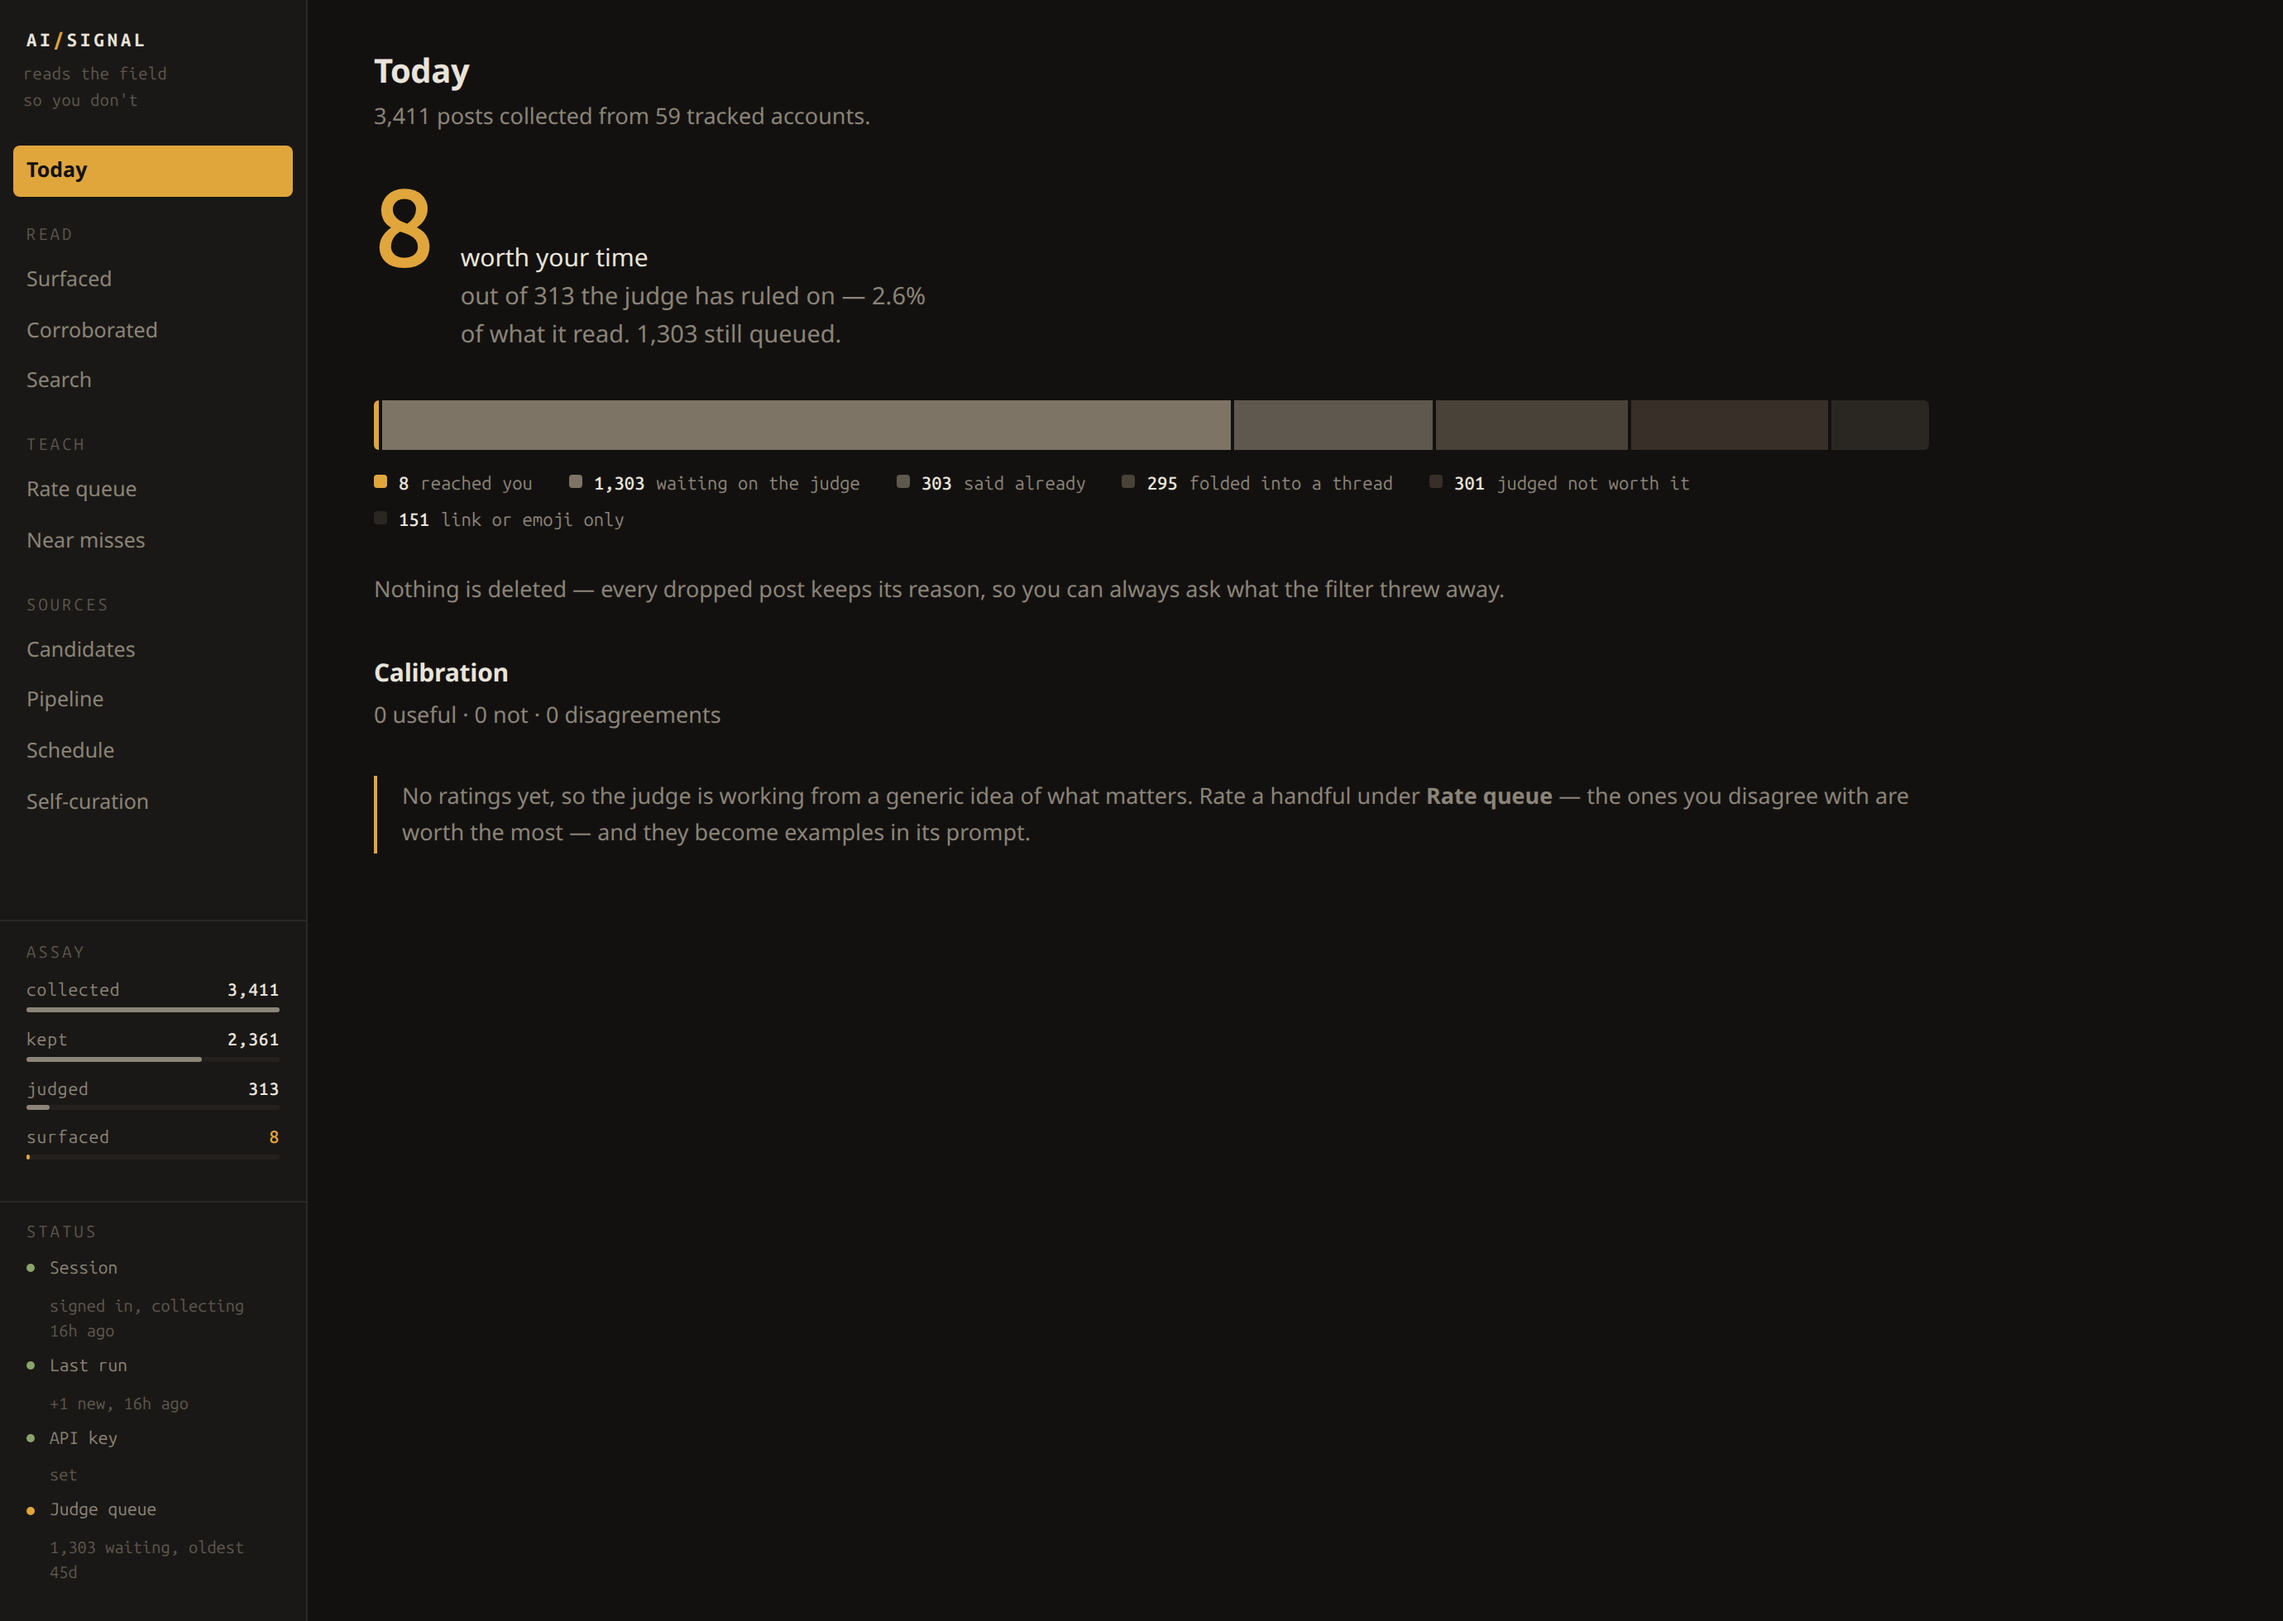
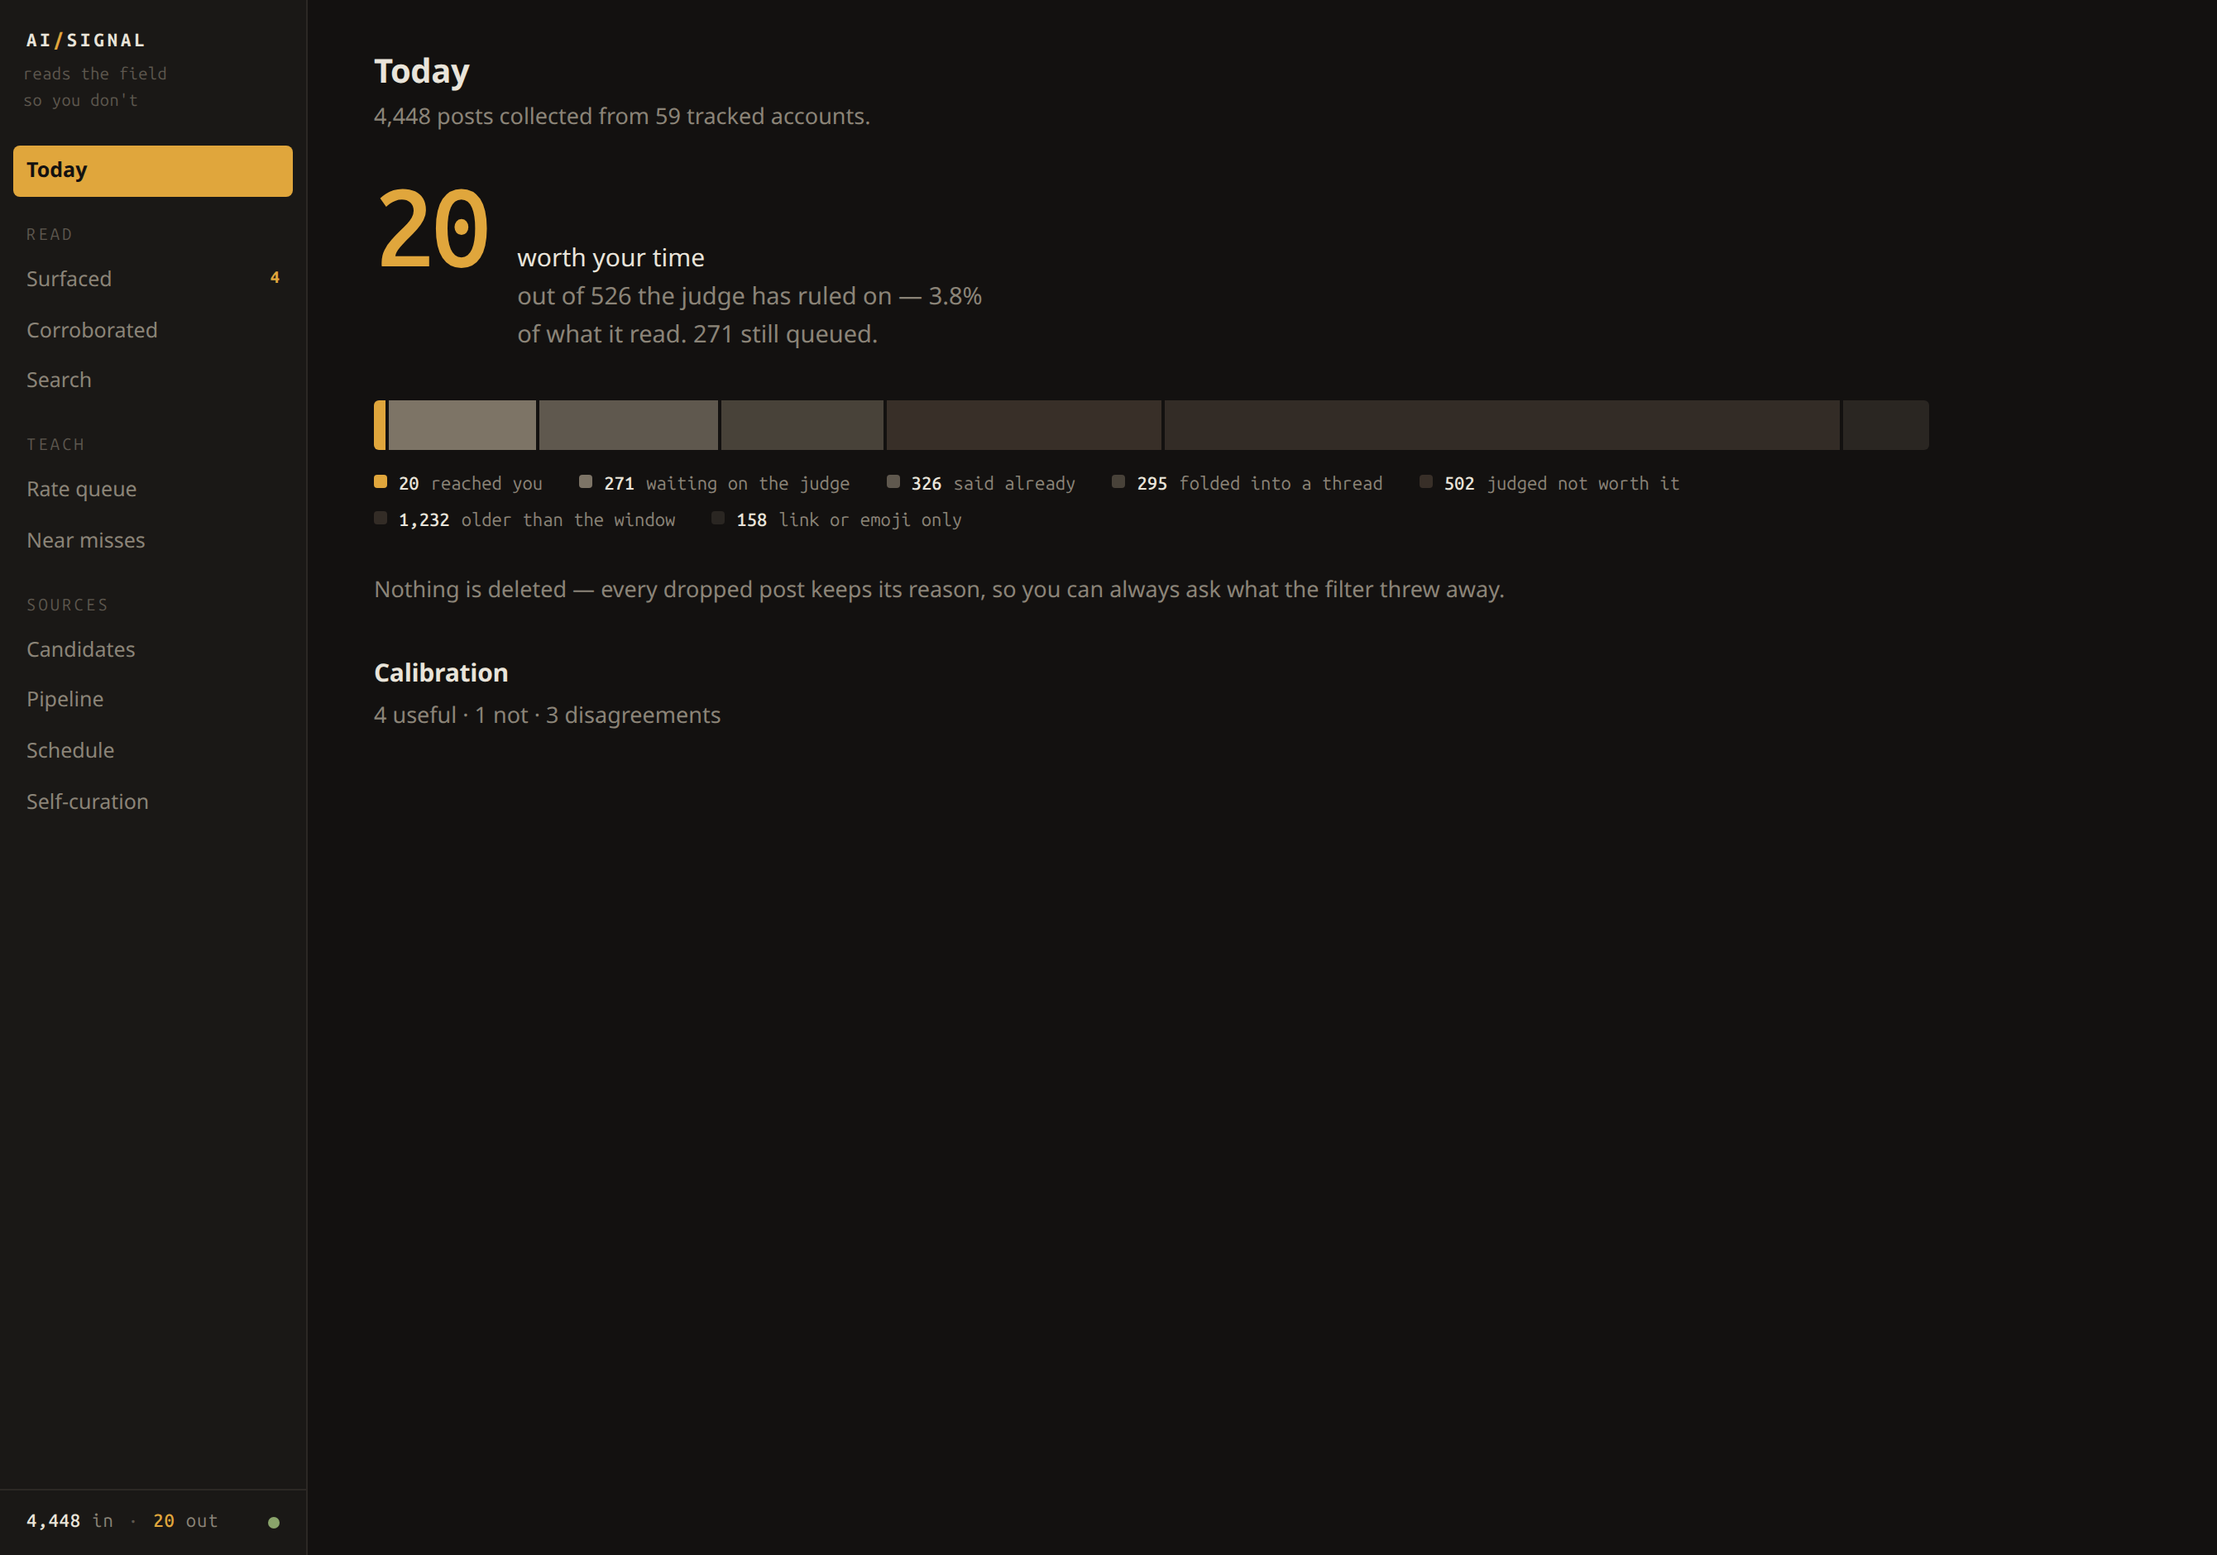
Update the README for six sources, and report what they are actually worth
Stale in several places: the commands block had no `sources`, the multilingual
embedder was undocumented despite being required for any non-English source,
and `login --service` and `accounts --add weibo:<uid>` existed with nothing
saying so. Every screenshot predated the redesign, so all six are regenerated.

The part worth reading is the yield table, which is now real numbers rather
than an argument:

  source    collected  judged  surfaced   mean
  x              3876     334         8   1.40
  arxiv            80      40         9   2.65
  hn               51      20         3   2.35
  rss             375       7         0   1.86
  weibo            60      31         0   1.39
  xhs              96      94         0   1.06

arXiv surfaces 23% of what it sends to the judge; X surfaces 2.4%. A paper is
ten times more likely to be worth reading than a post about a paper — which is
roughly what you would expect, and not at all how this project started. It was
built to follow people on X, and its own measurements now argue for papers and
forums first. The README says so.

Also documents the Chinese embedder gotcha with the measured numbers, since
getting it wrong silently deletes unrelated posts as duplicates.

diff --git a/README.md b/README.md
@@ -3,12 +3,13 @@
 [![CI](https://github.com/josephs-ai/twitter-info-grabber/workflows/CI/badge.svg)](https://github.com/josephs-ai/twitter-info-grabber/actions)
 [![License](https://img.shields.io/badge/license-Apache%202.0-blue.svg)](LICENSE)
 
-Follows a curated set of AI researchers on X and surfaces only the posts that
-are both **new** and **worth reading** — then extracts the actual findings, so
-you get the information rather than a reading list.
+Follows AI researchers across X, Weibo, Xiaohongshu, arXiv, Hacker News and
+any RSS feed, and surfaces only what is both **new** and **worth reading** —
+then extracts the actual findings, so you get the information rather than a
+reading list.
 
-A recent week: 3,411 posts collected, 313 reached the judge, 8 cleared the bar.
-One of them:
+A recent week: 4,538 posts collected across six sources, 526 reached the judge,
+20 cleared the bar. One of them:
 
 > **Training a single Transformer layer during RL post-training recovers most of
 > the gains from full-parameter RL, with high-contribution layers concentrated in
@@ -338,6 +339,79 @@ doctor` reports the depth.
 
 ---
 
+## Sources other than X
+
+X needed a browser, an interception layer and a burner account. Most of what is
+worth reading needs none of that:
+
+| Source | Needs | Notes |
+|---|---|---|
+| `rss` | nothing | 13 lab and researcher feeds, checked live. Anthropic publishes none, which is why the lab you would expect is missing. |
+| `arxiv` | nothing | The Atom API. Everything else here is people reacting to papers; this is the paper, including the ones nobody amplified. |
+| `hn` | nothing | The Firebase API. Where a release gets argued with — the person explaining why the benchmark is misleading is in those comments. |
+| `weibo` | nothing | The mobile site returns search results logged out. Closest in shape to X and the better of the two Chinese sources. |
+| `xhs` | a login | Xiaohongshu. Its API answers nothing without a session. |
+
+```bash
+./run sources                 # rss, arxiv and hn — the default sweep
+./run sources --only cn       # Weibo and Xiaohongshu, never automatic
+./run login --service xhs     # separate browser profile per service
+```
+
+**Yield is worth watching, because a source that collects a lot and surfaces
+nothing is not free** — every post it adds is money at the judge. `./run stats`
+reports it:
+
+```
+  source    collected  judged  surfaced   mean
+  x              3876     334         8   1.40
+  arxiv            80      40         9   2.65
+  hn               51      20         3   2.35
+  rss             375       7         0   1.86
+  weibo            60      31         0   1.39
+  xhs              96      94         0   1.06
+```
+
+Read that column of means before deciding what to track. **arXiv surfaces 23%
+of what it submits to the judge; X surfaces 2.4%** — a paper is ten times more
+likely to be worth your attention than a post about a paper, which is roughly
+what you would expect and not at all how this project started. Hacker News is
+second. The tool began as a way to follow people on X and its own numbers now
+argue for papers and forums first.
+
+That table is also why **Xiaohongshu's keyword search is off by default**. It does
+return AI content, and the judge then scored 90 notes at a mean value of 1.07
+out of 5 with none clearing the bar: searching a mass-market platform finds
+mass-market writing — "deploy a model on your PC from zero", "7 AI concepts in
+one diagram", interview-prep guides. Pass keywords explicitly to turn it back
+on. Tracking specific Xiaohongshu profiles still works and is a different
+proposition.
+
+### Reading Chinese
+
+Set this before collecting anything non-English:
+
+```bash
+echo "AI_SIGNAL_EMBED=multilingual" >> .env
+./run dedup --apply          # re-embeds locally, no API cost
+```
+
+The default embedder is English-only, and it does not fail safely on Chinese —
+it fails *confidently*. Measured on real posts, it scored these pairs as
+duplicates of each other:
+
+| | |
+|---|---|
+| 0.942 | a closed-door private equity meeting **vs** an essay on what "AI flavour" in writing is |
+| 0.957 | a conference countdown quoting Borges **vs** how a company lost a fortune reselling Office |
+
+Both are past the 0.92 duplicate threshold, so unrelated posts were silently
+dropped as repeats. The multilingual model scores the same pairs at 0.044 and
+0.126, and barely moves English (0.800 against 0.839). It costs 1GB against
+59MB, which is the only reason it is not the default.
+
+---
+
 ## Being told
 
 A filter that runs on a schedule is only worth having if it can reach you.
@@ -361,8 +435,8 @@ fire three hundred notifications for posts it newly admits.
 ## Commands
 
 ```
-collect   replies   suggest   links   curate   amplify   threads
-dedup     judge     extract   digest   notify      the pipeline, in order
+collect   sources   replies   suggest   links   curate   amplify
+threads   dedup     judge     extract  digest  notify   the pipeline, in order
 
 daily     run every stage once      app       open the desktop app
 search    query everything collected, judged or not
@@ -371,7 +445,16 @@ notify    announce findings; set desktop and webhook
 review    read past judgements      rate      record what you thought
 replay    re-judge under a new prompt         stats     what is in the database
 accounts  who is tracked            candidates  who was discovered
-login     sign in to X
+sources   read feeds, papers and forums without a browser
+login     sign in — `--service x|weibo|xhs`, each with its own profile
+```
+
+```bash
+./run accounts --add weibo:1402400261     # track a Weibo user by uid
+./run accounts --add xhs:5f8a1b2c3d4e     # or a Xiaohongshu profile
+./run sources --add https://example.com/feed.xml --title "A blog"
+./run sources --only cn                   # Weibo and Xiaohongshu, deliberately
+./run stats                               # yield per source — see below
 ```
 
 `./run doctor` when something seems wrong. `./run <cmd> --help` for options.
